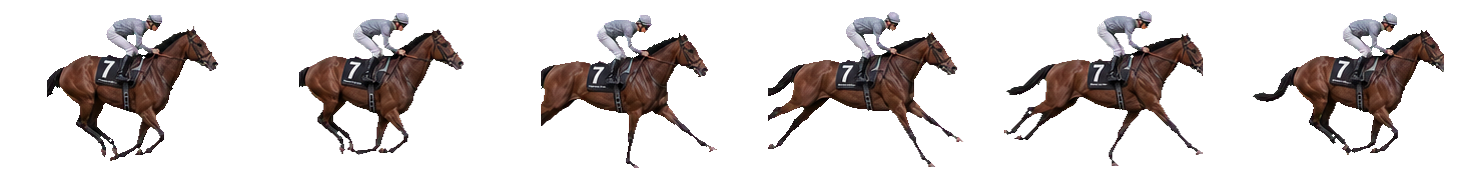
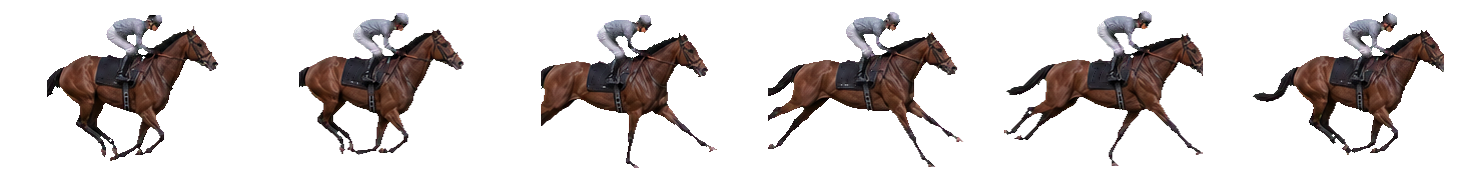
fix(ippodromo): tolto il '7' stampato dallo sprite + numeri piu' piccoli sulla gualdrappa
- Il '7' (e la scritta sotto) era identico su tutti i cavalli (stesso sprite) e spuntava
  ACCANTO al numero colorato = doppio numero / testo su testo. Cancellato dallo sprite
  (inpaint Telea del bianco sulla gualdrappa scura, tutti e 6 i frame) -> gualdrappa pulita.
- Numero colorato per cavallo ora PIU' PICCOLO con tetto massimo (min(w*0.115,19)) e
  ancorato piu' in alto, SULLA gualdrappa (ddy 0.38) invece che sulla spalla.
Ora il numero vero e unico e' quello colorato, piccolo, sul dorso.

diff --git a/artifacts/ideagame/src/pages/GestioneIppodromo.tsx b/artifacts/ideagame/src/pages/GestioneIppodromo.tsx
@@ -476,13 +476,13 @@ function MonitorRacing({ t, now, scale }: { t: HorseTbl; now: number; scale: num
         {/* banner codificato OPACO (copre quello dipinto nel track) + numero corsa LIVE */}
         <div className="a cbanner" style={{ left: 206, top: 7, width: 332, height: 48 }}><span>CORSA {String(t.race).padStart(3, '0')} · IN DIRETTA</span></div>
         {runners.map(r => {
-          const w = 170 * r.sc, hh = w * GALLOP_AR, bs = w * 0.15;
+          const w = 170 * r.sc, hh = w * GALLOP_AR, bs = Math.min(w * 0.115, 19);
           // posizione SCHERMO della gualdrappa (il "numero sul fantino"): parte dal punto
           // sella nel sprite e segue scaleX+rotazione del cavallo, così resta SUL dorso.
           const ox = w * 0.5, oy = hh * 0.72;                 // origine trasformazioni
           const s1x = ox + (w * 0.44 - ox) * r.sx;            // dopo scaleX
           const rr = r.rot * Math.PI / 180, co = Math.cos(rr), si = Math.sin(rr);
-          const ddx = s1x - ox, ddy = hh * 0.50 - oy;         // dopo rotazione
+          const ddx = s1x - ox, ddy = hh * 0.38 - oy;         // dopo rotazione (sulla gualdrappa)
           const sadX = ox + ddx * co - ddy * si, sadY = oy + ddx * si + ddy * co;
           return (
             <div key={r.h.n} className="a runner" style={{ left: r.x, top: r.y, width: w, height: hh, transform: 'translate(-50%, -90%)', zIndex: Math.round(r.y) }}>
